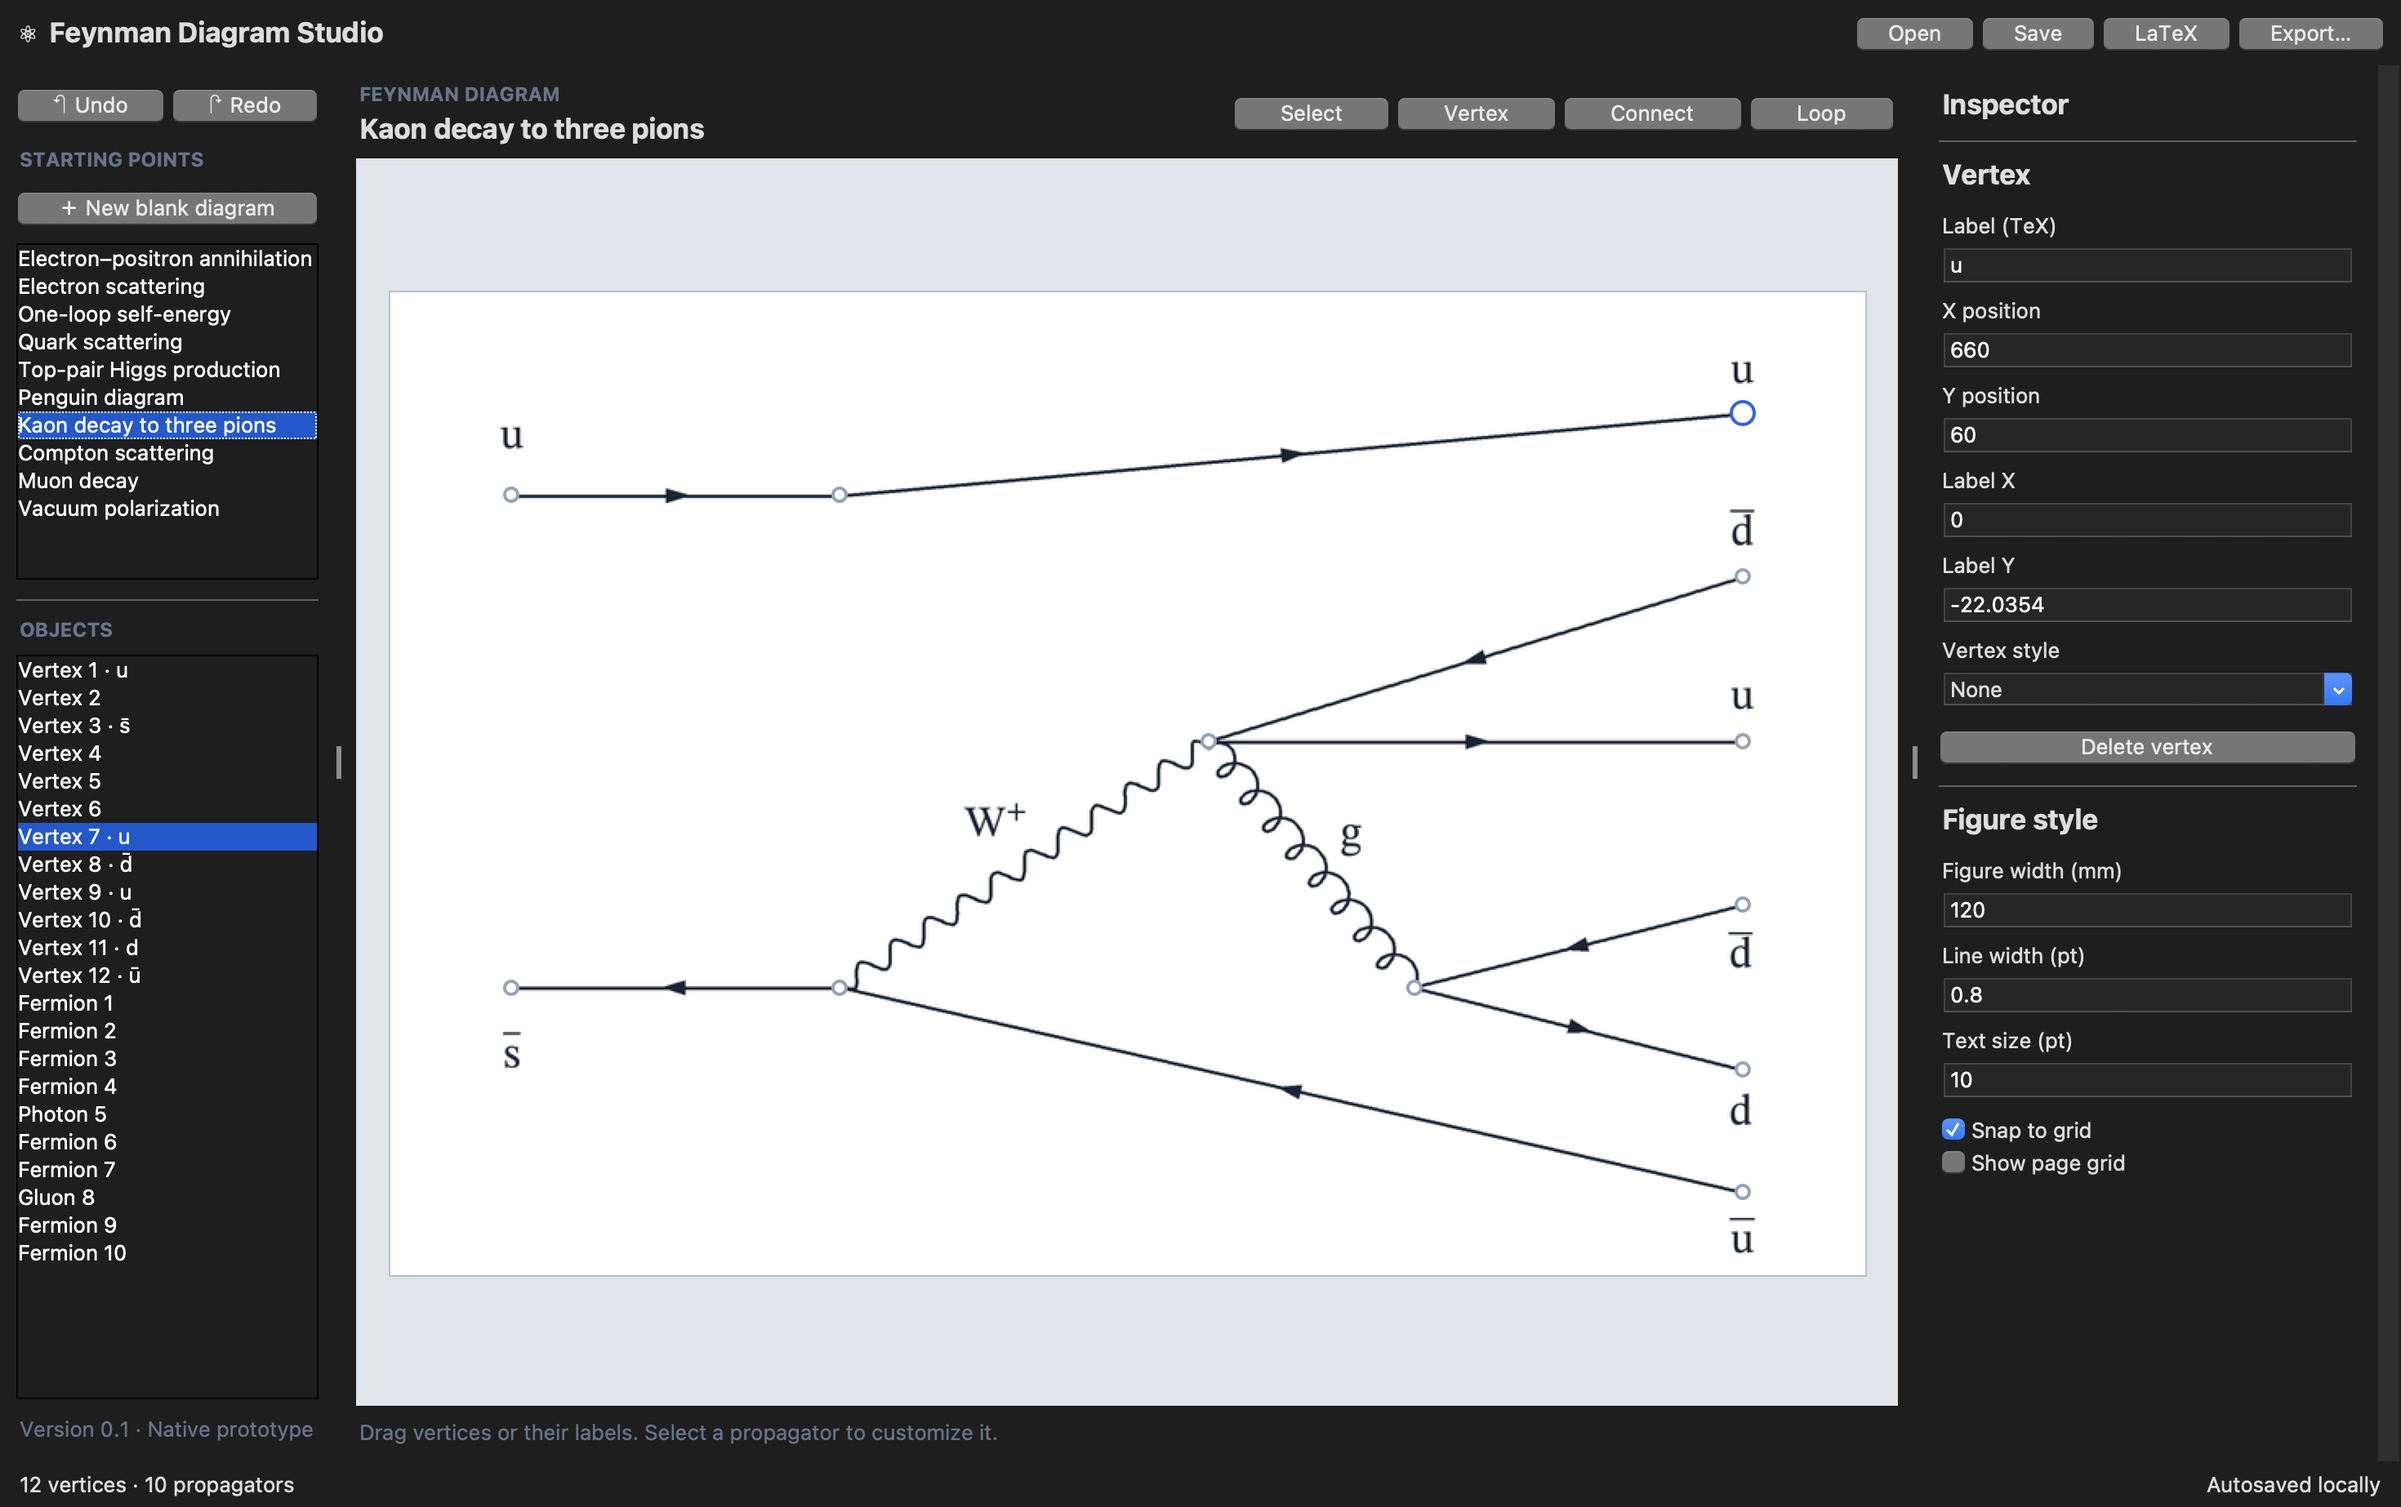
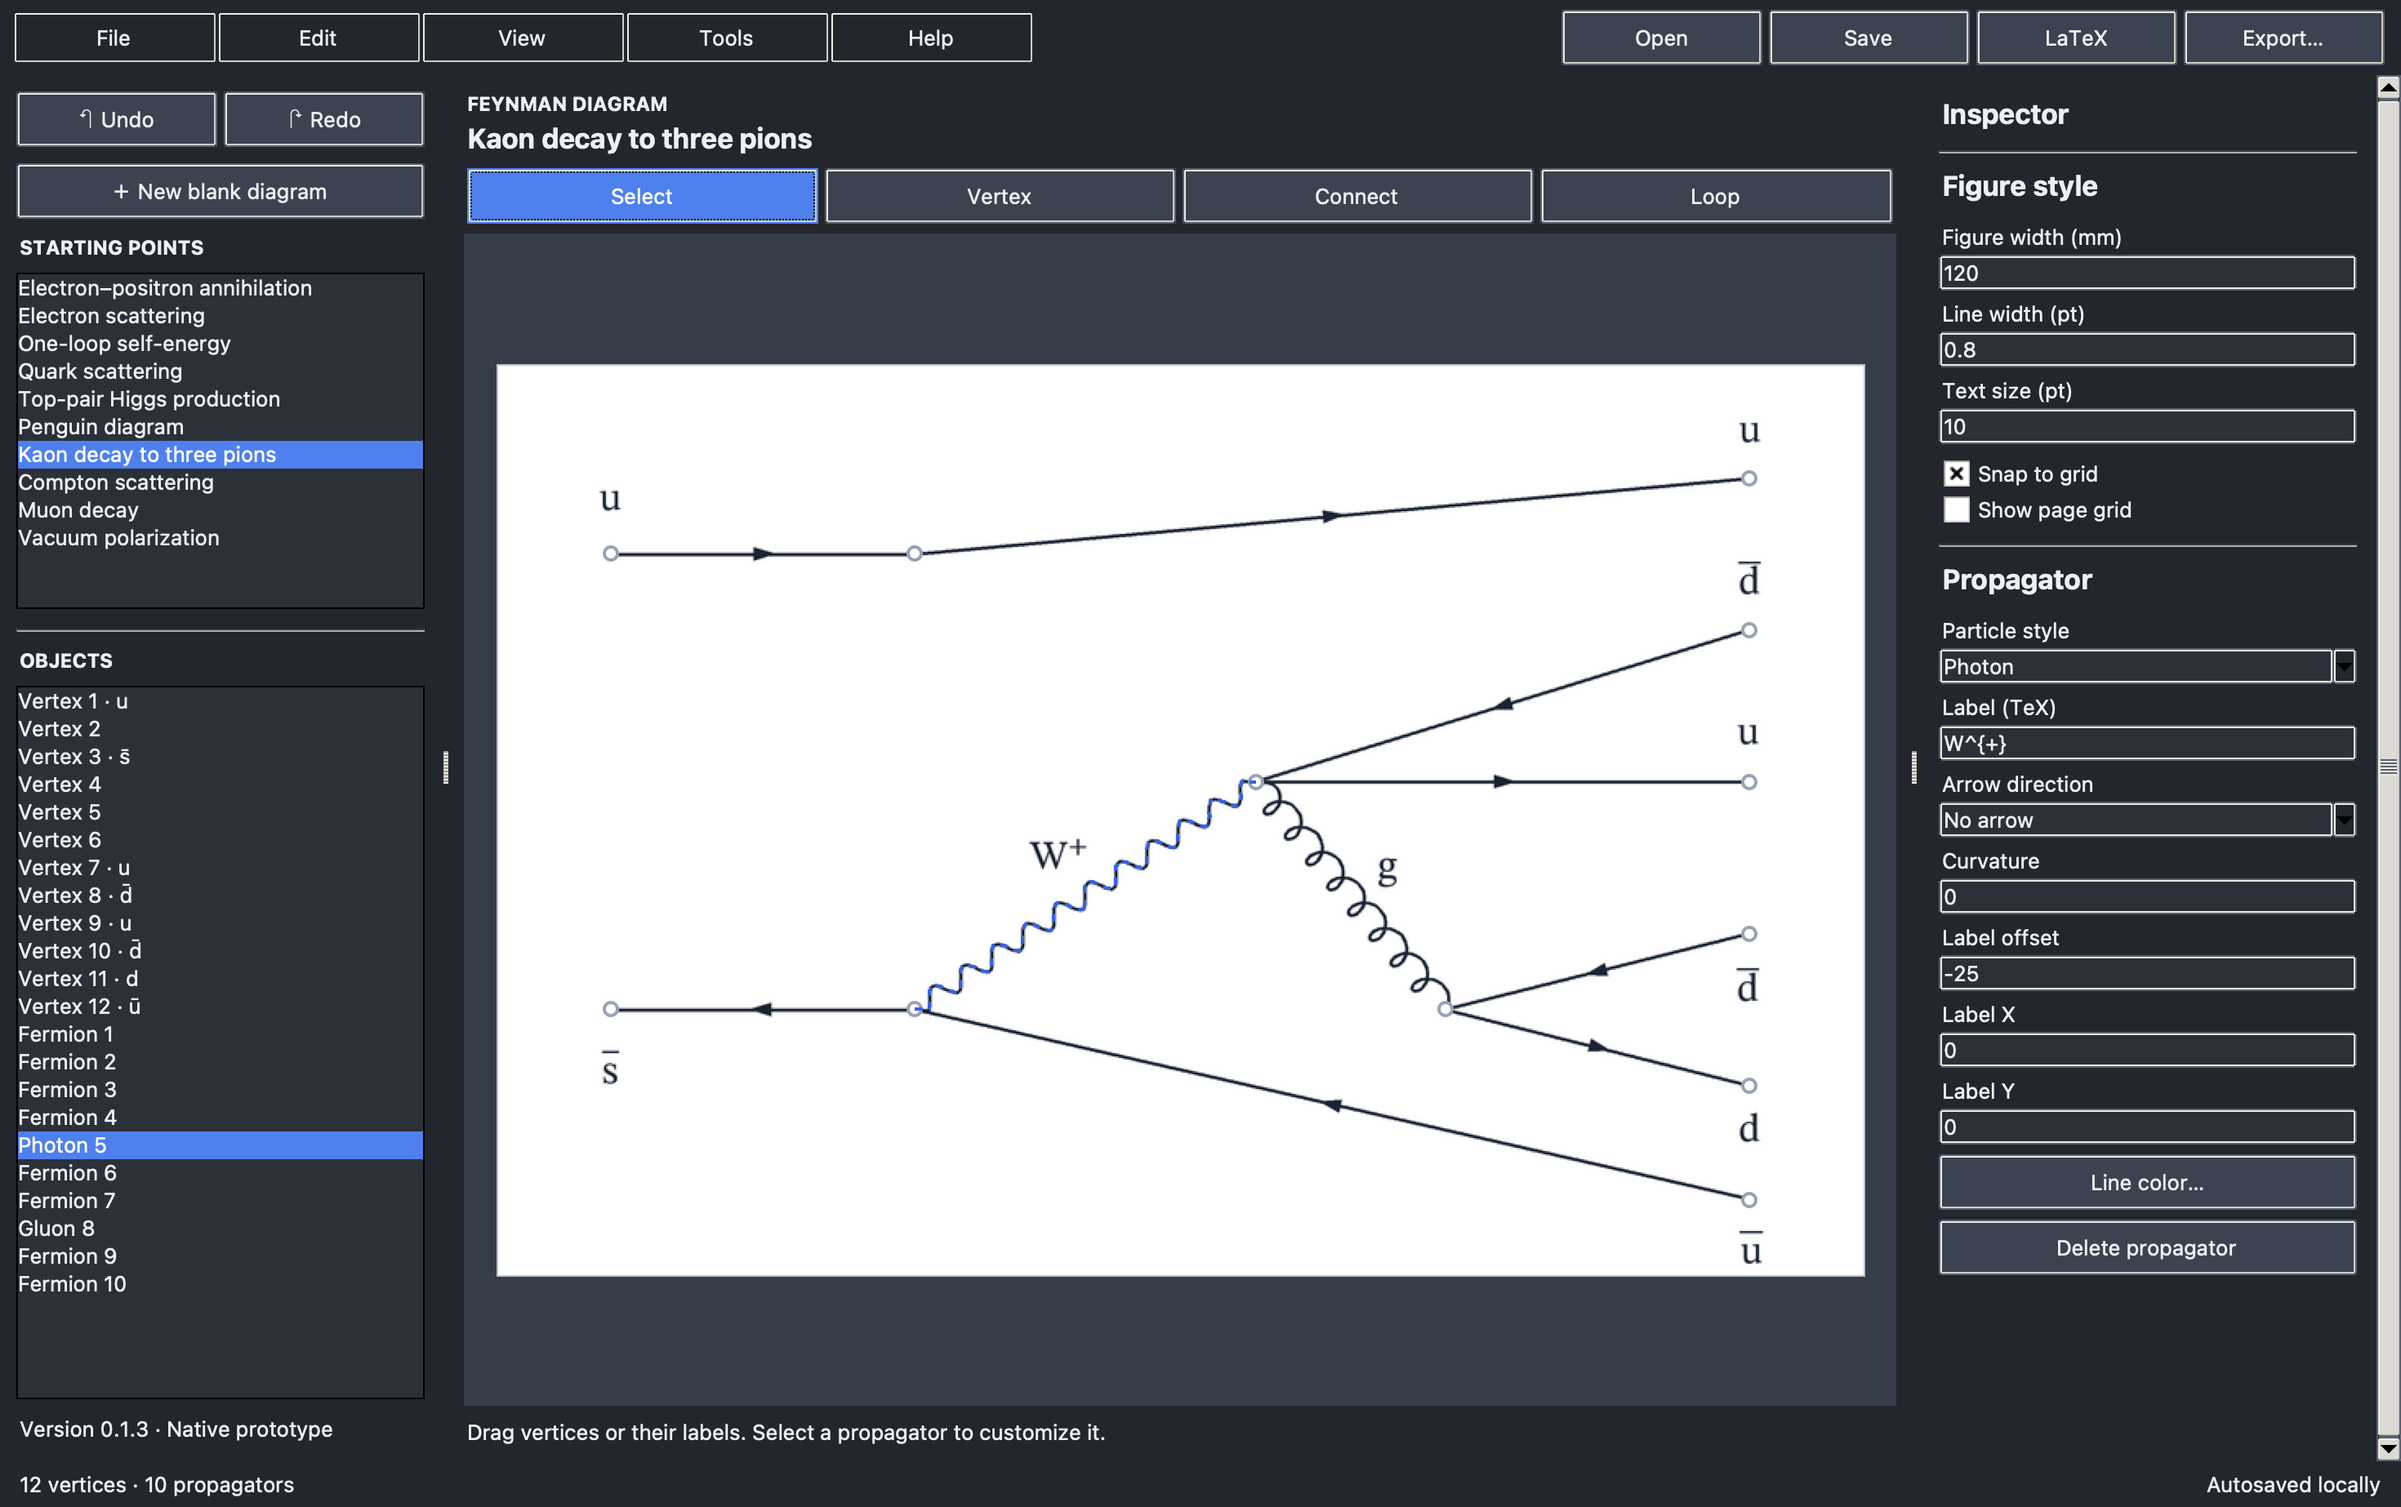
Refresh README and screenshot for version 0.1.3

diff --git a/README.md b/README.md
@@ -1,23 +1,31 @@
 # Feynman Diagram Studio
 
-A lightweight, native desktop editor for drawing publication-ready Feynman diagrams. It uses operating-system GUI controls and a native canvas.
+A lightweight, native desktop editor for drawing publication-ready Feynman diagrams, including LaTeX and SVG/PDF/PNG/JPEG export.
 
 ![Feynman Diagram Studio editing a kaon decay diagram](docs/images/feynman-diagram-studio.png)
 
 ## Features
 
+### General features
+
 - Native GUI for macOS, Windows, and Linux
 - Visible File, Edit, View, Tools, and Help menus; automatic system theme with Light and Dark overrides
-- Fermion, photon, gluon, scalar, and ghost propagators
-- Straight, curved, self-loop, and two-vertex circular paths
-- Forward/reverse arrows and one-, two-, or three-line quark bundles
-- Open, filled, hatched, crosshatched, dotted, and standard interaction vertices
 - Antialiased, high-resolution canvas preview
-- Click labels to select vertices or propagators; drag labels freely in both directions; 10-, 20-, or 40-unit page grid and vertex snapping; keyboard nudging
+- 10-, 20-, or 40-unit page grid, vertex snapping, and keyboard nudging
 - Undo/redo history and local crash-recovery autosave
 - Rename a diagram by double-clicking its title above the canvas or choosing Edit → Rename Diagram
-- Ten starting templates and editable JSON project files
+- Editable JSON project files
 - Vector SVG/PDF export and PNG/JPEG export at 300, 600, or 1200 ppi
+
+### Feynman diagram features
+
+- Fermion, photon, gluon, scalar, and ghost propagators
+- Straight, curved, self-loop, and two-vertex circular paths
+- Forward and reverse arrows
+- Open, filled, hatched, crosshatched, dotted, and standard interaction vertices
+- Click labels to select vertices or propagators; drag labels freely in both directions
+- Edit propagator colors and vertex or propagator labels, with independent label positioning
+- Ten starting templates
 - LaTeX export for TikZ-Feynman, TikZ-FeynHand, feynMP, feynMF, PST-Feyn, and axodraw2
 
 ## Install and run
